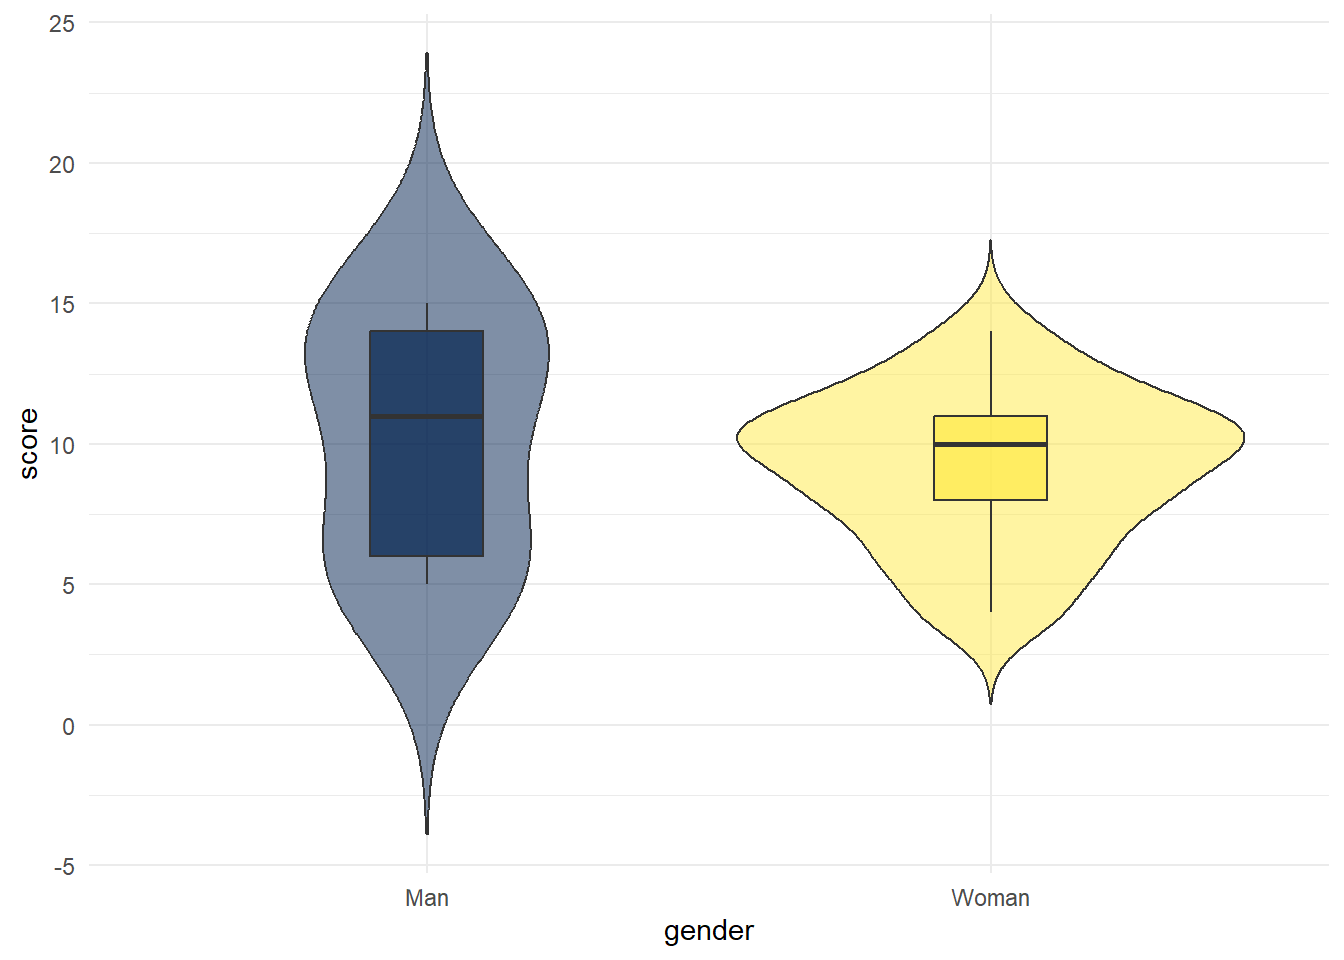
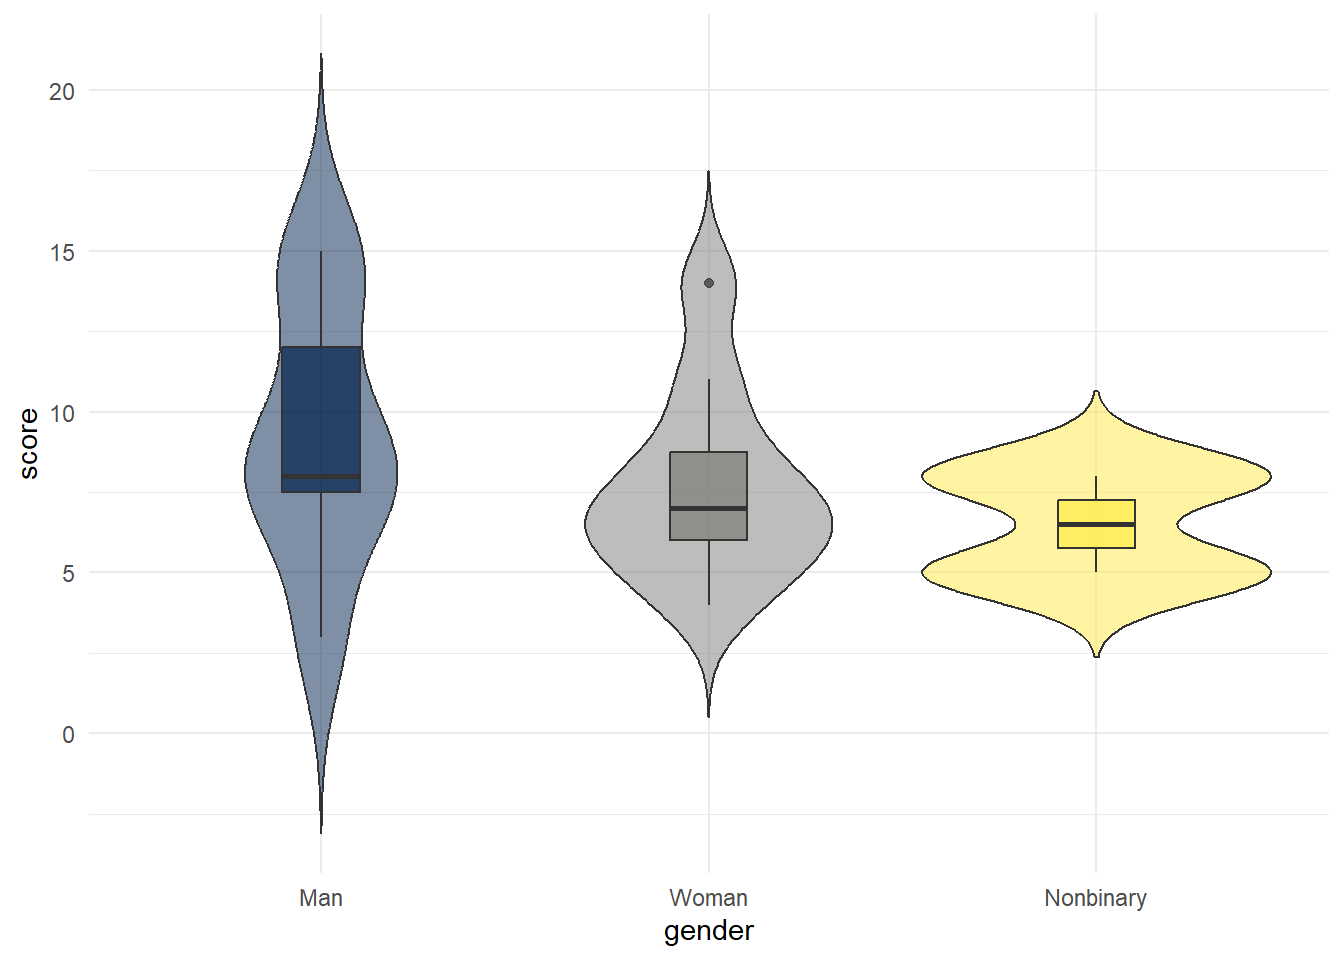
mic

diff --git a/content/post/2024-03-20-psychology-of-swearing-mic/index.en.html b/content/post/2024-03-20-psychology-of-swearing-mic/index.en.html
@@ -47,9 +47,9 @@ projects: []
 </div>
 <div id="relationship-between-age-and-vocabulary" class="section level2">
 <h2>Relationship between age and vocabulary</h2>
-<p>The correlation between age and animals is r = -0.2, p = 0.619.</p>
-<p>The correlation between age and swears is r = 0.11, p = 0.619.</p>
-<p>The correlation between swears and animals is r = 0.26, p = 0.556.</p>
+<p>The correlation between age and animals is r = -0.4, p = 0.218.</p>
+<p>The correlation between age and swears is r = -0.12, p = 0.652.</p>
+<p>The correlation between swears and animals is r = 0.47, p = 0.106.</p>
 <p><img src="staticunnamed-chunk-3-1.png" width="672" style="display: block; margin: auto;" /></p>
 </div>
 <div id="vocabulary-scores-by-gender" class="section level2">
@@ -66,11 +66,15 @@ projects: []
 <tbody>
 <tr class="odd">
 <td align="center">Man</td>
-<td align="center">14.60</td>
+<td align="center">13.57</td>
 </tr>
 <tr class="even">
 <td align="center">Woman</td>
-<td align="center">17.23</td>
+<td align="center">13.90</td>
+</tr>
+<tr class="odd">
+<td align="center">Nonbinary</td>
+<td align="center">15.50</td>
 </tr>
 </tbody>
 </table>
@@ -89,11 +93,15 @@ projects: []
 <tbody>
 <tr class="odd">
 <td align="center">Man</td>
-<td align="center">10.20</td>
+<td align="center">9.29</td>
 </tr>
 <tr class="even">
 <td align="center">Woman</td>
-<td align="center">9.14</td>
+<td align="center">7.70</td>
+</tr>
+<tr class="odd">
+<td align="center">Nonbinary</td>
+<td align="center">6.50</td>
 </tr>
 </tbody>
 </table>
